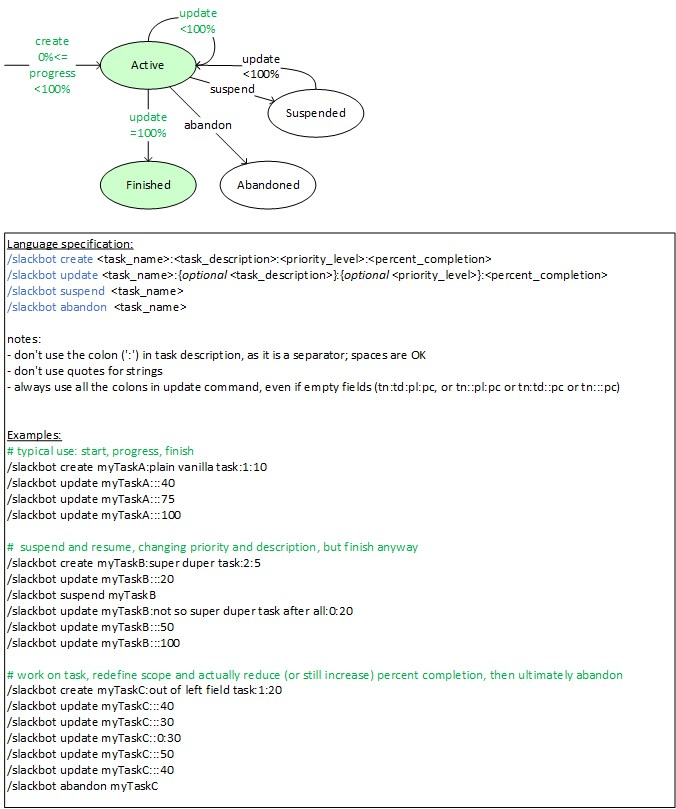
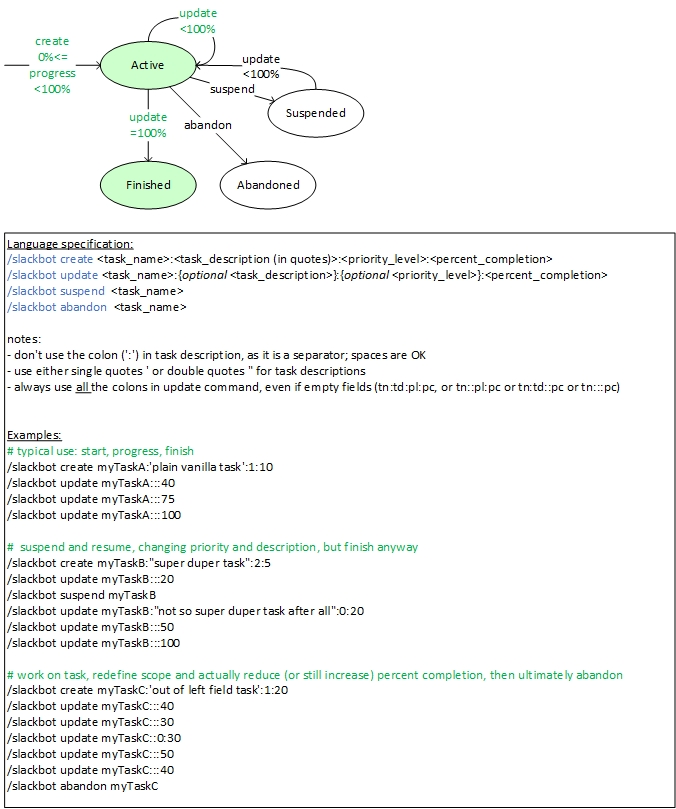
tried shlex for parsing
Instead of basic strip(), split(), partition(), and startswith() methods from Python strings, tried the Shell-like lexical analysis ("shlex") module.
It works well, and makes the code a bit shorter and hopefully cleaner.

diff --git a/sb-command-parser.py b/sb-command-parser.py
@@ -1,4 +1,127 @@
-def slackbot_command_parse(input_line_of_text,begins_with='/slackbot '):
+import shlex
+
+def slackbot_command_parse(input_line_of_text,begins_with='/slackbot'):
+    """ Evaluate an input line of text, extract and return a data structure for a slackbot command.
+    Expected syntax for slackbot commands:
+      /slackbot create <task_name>:<task_description (in quotes)>:<priority_level>:<percent_completion>
+      /slackbot update <task_name>:{optional <task_description>}:{optional <priority_level>}:<percent_completion>
+      /slackbot suspend  <task_name>
+      /slackbot abandon  <task_name>
+    Returned data structure: dictionary, with 5 keys:
+       'Command','Task Name','Task Description','Priority Level','Percent Completion'
+    Values for keys ('Command','Task Name','Task Description') are strings
+    Values for keys ('Priority Level','Percent Completion') are integers or empty strings.
+    Basic command parameter value verification is performed.
+    :param input_line_of_text: input line of text.
+    :param begins_with: string that the command is supposed to start with.
+    """
+
+    # declare returned data structure
+    ret_dict = {}
+
+    # some local variables
+    priority_level_list = [0,1,2]
+    # column names
+    col_command = 'Command'
+    col_taskname = 'Task Name'
+    col_taskdesc = 'Task Description'
+    col_priolevel = 'Priority Level'
+    col_percent = 'Percent Completion'
+
+    try:
+
+        # use shlex: Shell-like lexical analysis
+        parsed_input = shlex.split(input_line_of_text)
+        # if the input is a slackbot command, then we should have:
+        # parsed_input[0] == '/slackbot'           : keyword for slackbot
+        # parsed_input[1] == <command>             : keywork for the slackbot command
+        # parsed_input[2] == <tn:{td}:{pl}:{pc}>   : parameters of slackbot command
+
+        # check that the first token is '/slackbot' (slash, 'slackbot'), or the user argument begins_with
+        if parsed_input[0] == begins_with:
+
+            # following blocks: specific processing for each slackbot command
+
+            # specific processing for: create
+            COMMAND = 'create'
+            if parsed_input[1] == COMMAND:
+                param_list = parsed_input[2].split(':')
+                # length must be exactly 4, and all parameters must be correct
+                #   (TN task_name, TD task_description, PL priority_level, PC percent_completion)
+                # need to cast PL and PC as int (because they are strings)
+                # note: range (a,b) goes from a to b-1 : [a;b-1], or [a;b[ (if a and b are integers, and a<b)
+                if len(param_list) == 4:
+                    # basic parameter value checks
+                    if ( (len(param_list[0]) > 0) and (len(param_list[1]) > 0) and
+                         (int(param_list[2]) in priority_level_list) and (int(param_list[3]) in range(0,101)) ):
+                        ret_dict = {col_command:COMMAND,
+                                    col_taskname:param_list[0],
+                                    col_taskdesc:param_list[1],
+                                    col_priolevel:int(param_list[2]),
+                                    col_percent:int(param_list[3])}
+
+            # specific processing for: update
+            COMMAND = 'update'
+            if parsed_input[1] == COMMAND:
+                param_list = parsed_input[2].split(':')
+                # length must be exactly 4, but TD and PL can be empty
+                if len(param_list) == 4:
+                    # basic parameter value checks: only TN and PC; TD can be added even if empty, no need to check
+                    if (len(param_list[0]) > 0) and (int(param_list[3]) in range(0, 101)):
+                        # check for optional PL; but don't create return value if incorrect
+                        # (if PL is there, it has to be valid)
+                        if len(param_list[2])>0:
+                            if int(param_list[2]) in priority_level_list:
+                                ret_dict = {col_command: COMMAND,
+                                            col_taskname: param_list[0],
+                                            col_taskdesc: param_list[1],
+                                            col_priolevel: int(param_list[2]),
+                                            col_percent: int(param_list[3])}
+                            # else, do not return the dictionary: priority level was invalid
+                        else:
+                            ret_dict = {col_command: COMMAND,
+                                        col_taskname: param_list[0],
+                                        col_taskdesc: param_list[1],
+                                        col_priolevel: '',
+                                        col_percent: int(param_list[3])}
+
+            # specific processing for: suspend
+            COMMAND = 'suspend'
+            if parsed_input[1] == COMMAND:
+                param_list = parsed_input[2].split(':')
+                # length should be exactly 1
+                if len(param_list) == 1:
+                    # basic parameter value checks: only TN
+                    if len(param_list[0]) > 0:
+                        ret_dict = {col_command: COMMAND,
+                                    col_taskname: param_list[0],
+                                    col_taskdesc: '',
+                                    col_priolevel: '',
+                                    col_percent: ''}
+
+            # specific processing for: abandon
+            COMMAND = 'abandon'
+            if parsed_input[1] == COMMAND:
+                param_list = parsed_input[2].split(':')
+                # length should be exactly 1
+                if len(param_list) == 1:
+                    # basic parameter value checks: only TN
+                    if len(param_list[0]) > 0:
+                        ret_dict = {col_command: COMMAND,
+                                    col_taskname: param_list[0],
+                                    col_taskdesc: '',
+                                    col_priolevel: '',
+                                    col_percent: ''}
+
+        return ret_dict
+
+    except:
+        # no slackbot command match, so return variable is not modified, and is left empty
+        return ret_dict
+
+
+
+def slackbot_command_parse_old_to_be_removed(input_line_of_text,begins_with='/slackbot '):
     """ Evaluate an input line of text, extract and return a data structure for a slackbot command.
     Data structure: dictionary, with 5 keys:
        'Command','Task Name','Task Description','Priority Level','Percent Progress'
@@ -94,22 +217,42 @@ def slackbot_command_parse(input_line_of_text,begins_with='/slackbot '):
         # no slackbot command match, so return variable is not modified, and is left empty
         return ret_dict
 
-
 if __name__ == "__main__":
 
-    good_test_lines = ['/slackbot create myTaskA:plain vanilla task:1:10',
+    # good_test_lines = ['/slackbot create myTaskA:plain vanilla task:1:10',
+    #                    '/slackbot update myTaskA:::40',
+    #                    '/slackbot update myTaskA:new description::40',
+    #                    '/slackbot update myTaskA::0:40',
+    #                    '/slackbot update myTaskA:::75',
+    #                    '/slackbot update myTaskA:::100',
+    #                    '/slackbot create myTaskB:super duper task:2:5',
+    #                    '/slackbot update myTaskB:::20',
+    #                    '/slackbot suspend myTaskB',
+    #                    '/slackbot update myTaskB:not so super duper task after all:0:20',
+    #                    '/slackbot update myTaskB:::50',
+    #                    '/slackbot update myTaskB:::100',
+    #                    '/slackbot create myTaskC:out of left field task:1:20',
+    #                    '/slackbot update myTaskC:::40',
+    #                    '/slackbot update myTaskC:::30',
+    #                    '/slackbot update myTaskC::0:30',
+    #                    '/slackbot update myTaskC:::50',
+    #                    '/slackbot update myTaskC:::40',
+    #                    '/slackbot abandon myTaskC'
+    #                   ]
+
+    good_test_lines = ['/slackbot create myTaskA:\'plain vanilla task\':1:10',
                        '/slackbot update myTaskA:::40',
-                       '/slackbot update myTaskA:new description::40',
+                       '/slackbot update myTaskA:\"new description\"::40',
                        '/slackbot update myTaskA::0:40',
                        '/slackbot update myTaskA:::75',
                        '/slackbot update myTaskA:::100',
-                       '/slackbot create myTaskB:super duper task:2:5',
+                       '/slackbot create myTaskB:\'super duper task\':2:5',
                        '/slackbot update myTaskB:::20',
                        '/slackbot suspend myTaskB',
-                       '/slackbot update myTaskB:not so super duper task after all:0:20',
+                       '/slackbot update myTaskB:\'not so super duper task after all\':0:20',
                        '/slackbot update myTaskB:::50',
                        '/slackbot update myTaskB:::100',
-                       '/slackbot create myTaskC:out of left field task:1:20',
+                       '/slackbot create myTaskC:\"out of left field task\":1:20',
                        '/slackbot update myTaskC:::40',
                        '/slackbot update myTaskC:::30',
                        '/slackbot update myTaskC::0:30',
@@ -117,20 +260,49 @@ if __name__ == "__main__":
                        '/slackbot update myTaskC:::40',
                        '/slackbot abandon myTaskC'
                       ]
+
     print('Good test lines:')
     for test_line in good_test_lines:
         print (test_line,':\n   ',slackbot_command_parse(test_line))
 
 
-    badd_test_lines = ['/slackbott create myTaskA:plain vanilla task:1:10',
-                       'slackbot create myTaskA:plain vanilla task:1:10',
-                       '/slackbot createmyTaskA:plain vanilla task:1:10',
-                       '/slackbotcreate myTaskA:plain vanilla task:1:10',
-                       '/slackbot create myTaskA:plain vanilla task:3:10',
-                       '/slackbot create myTaskA:plain vanilla task:1:200',
-                       '/slackbot create myTaskA:plain vanilla task:1:10:45',
-                       '/slackbot create myTaskA:plain vanilla task:hello:10',
-                       '/slackbot create myTaskA:plain vanilla task:1:uhuh',
+    # badd_test_lines = ['/slackbott create myTaskA:plain vanilla task:1:10',
+    #                    'slackbot create myTaskA:plain vanilla task:1:10',
+    #                    '/slackbot createmyTaskA:plain vanilla task:1:10',
+    #                    '/slackbotcreate myTaskA:plain vanilla task:1:10',
+    #                    '/slackbot create myTaskA:plain vanilla task:3:10',
+    #                    '/slackbot create myTaskA:plain vanilla task:1:200',
+    #                    '/slackbot create myTaskA:plain vanilla task:1:10:45',
+    #                    '/slackbot create myTaskA:plain vanilla task:hello:10',
+    #                    '/slackbot create myTaskA:plain vanilla task:1:uhuh',
+    #                    '/slackbot create :plain vanilla task:1:uhuh',
+    #                    '/slackbot update myTaskA::40',
+    #                    '/slackbot update myTaskA:40',
+    #                    '/slackbot update myTaskA::4:40',
+    #                    '/slackbot update myTaskA:::400',
+    #                    '/slackbot update :::75',
+    #                    '/slackbot suspend myTaskB:::',
+    #                    '/slackbot suspend myTaskB::',
+    #                    '/slackbot suspend myTaskB:',
+    #                    '/slackbot suspend myTaskB:::350',
+    #                    '/slackbot abandon myTaskC:::',
+    #                    '/slackbot abandon myTaskC::',
+    #                    '/slackbot abandon myTaskC:',
+    #                    '/slackbot abandon myTaskC::3:',
+    #                    '/slackbot abandon myTaskC:::102',
+    #                    '/slackbot create myTaskA:plain vanilla task:1:10'
+    #                    ]
+
+    badd_test_lines = ['/slackbott create myTaskA:\'plain vanilla task\':1:10',
+                       'slackbot create myTaskA:\'plain vanilla task\':1:10',
+                       '/slackbot createmyTaskA:\'plain vanilla task\':1:10',
+                       '/slackbotcreate myTaskA:\"plain vanilla task\":1:10',
+                       '/slackbot create myTaskA:\"plain vanilla task\":3:10',
+                       '/slackbot create myTaskA:\'plain vanilla task\':1:200',
+                       '/slackbot create myTaskA:\'plain vanilla task\':1:10:45',
+                       '/slackbot create myTaskA:\'plain vanilla task\':hello:10',
+                       '/slackbot create myTaskA:\'plain vanilla task\':1:uhuh',
+                       '/slackbot create :\'plain vanilla task\':1:uhuh',
                        '/slackbot create :plain vanilla task:1:uhuh',
                        '/slackbot update myTaskA::40',
                        '/slackbot update myTaskA:40',
@@ -145,8 +317,11 @@ if __name__ == "__main__":
                        '/slackbot abandon myTaskC::',
                        '/slackbot abandon myTaskC:',
                        '/slackbot abandon myTaskC::3:',
-                       '/slackbot abandon myTaskC:::102'
+                       '/slackbot abandon myTaskC:::102',
+                       '/slackbot create myTaskA:\'plain vanilla task\":1:10',
+                       '/slackbot create myTaskA:\"plain vanilla task\':1:10'
                        ]
+
     print()
     print('Bad test lines:')
     for test_line in badd_test_lines:
